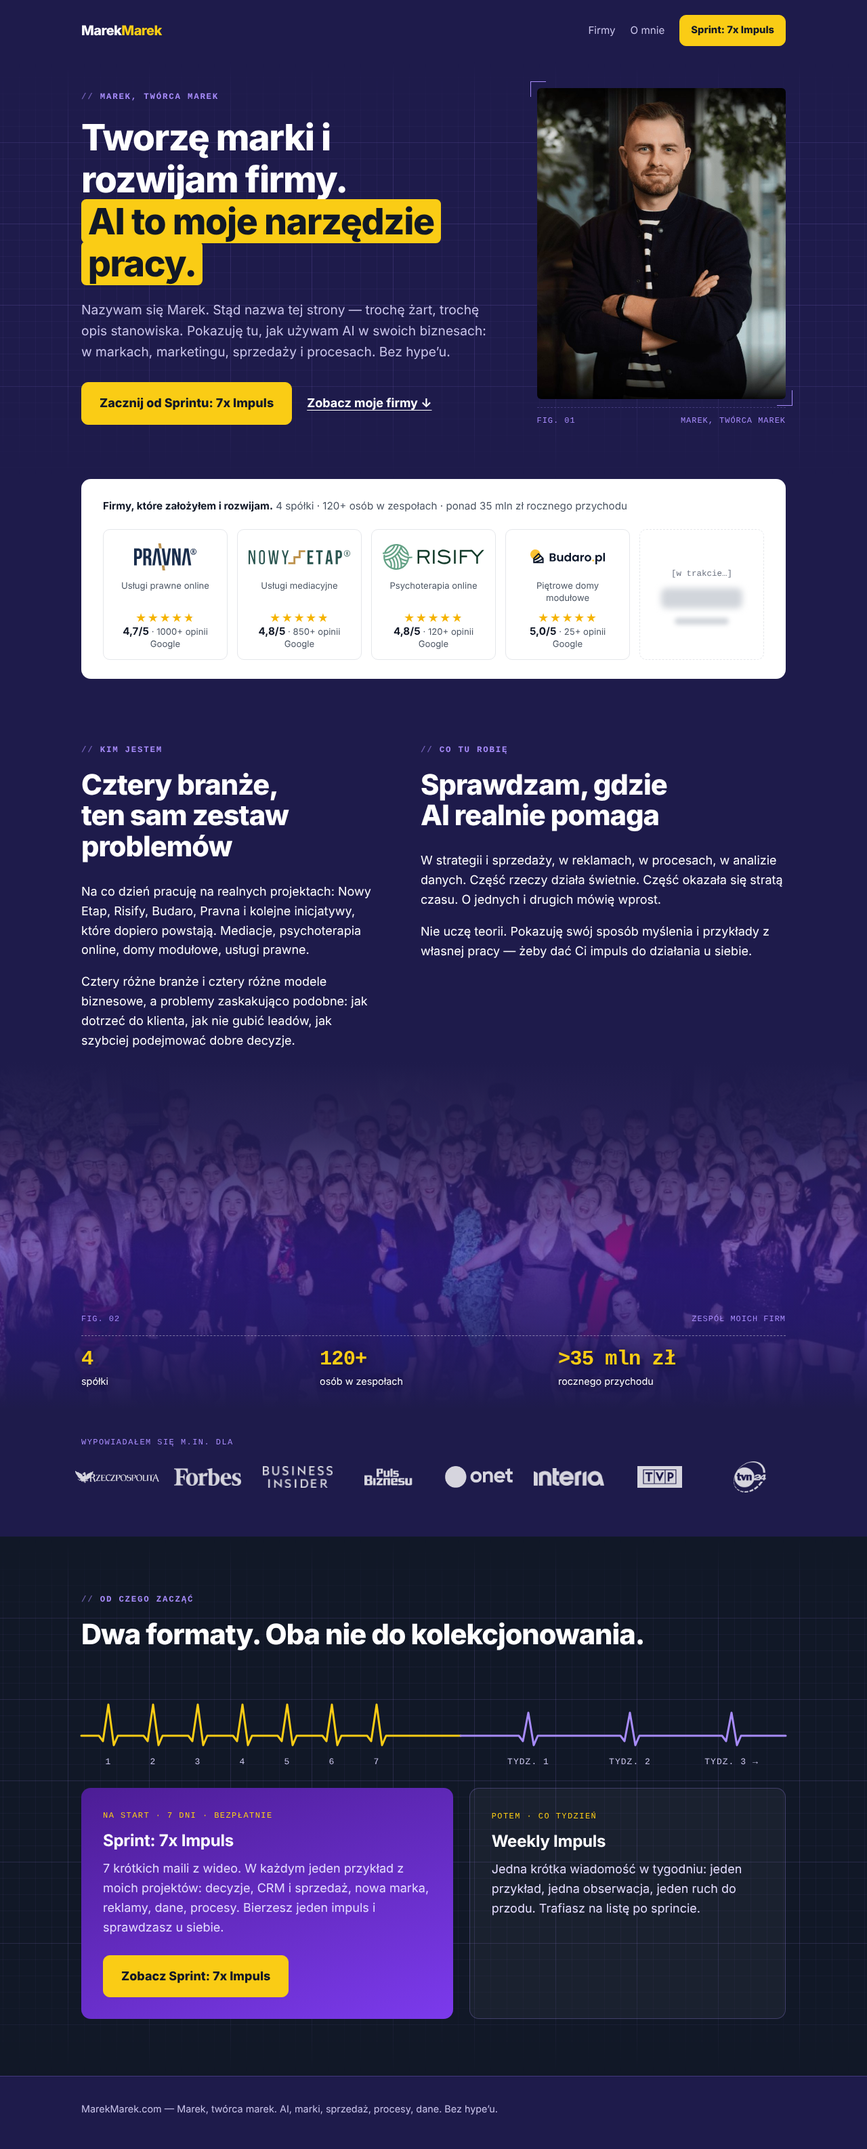
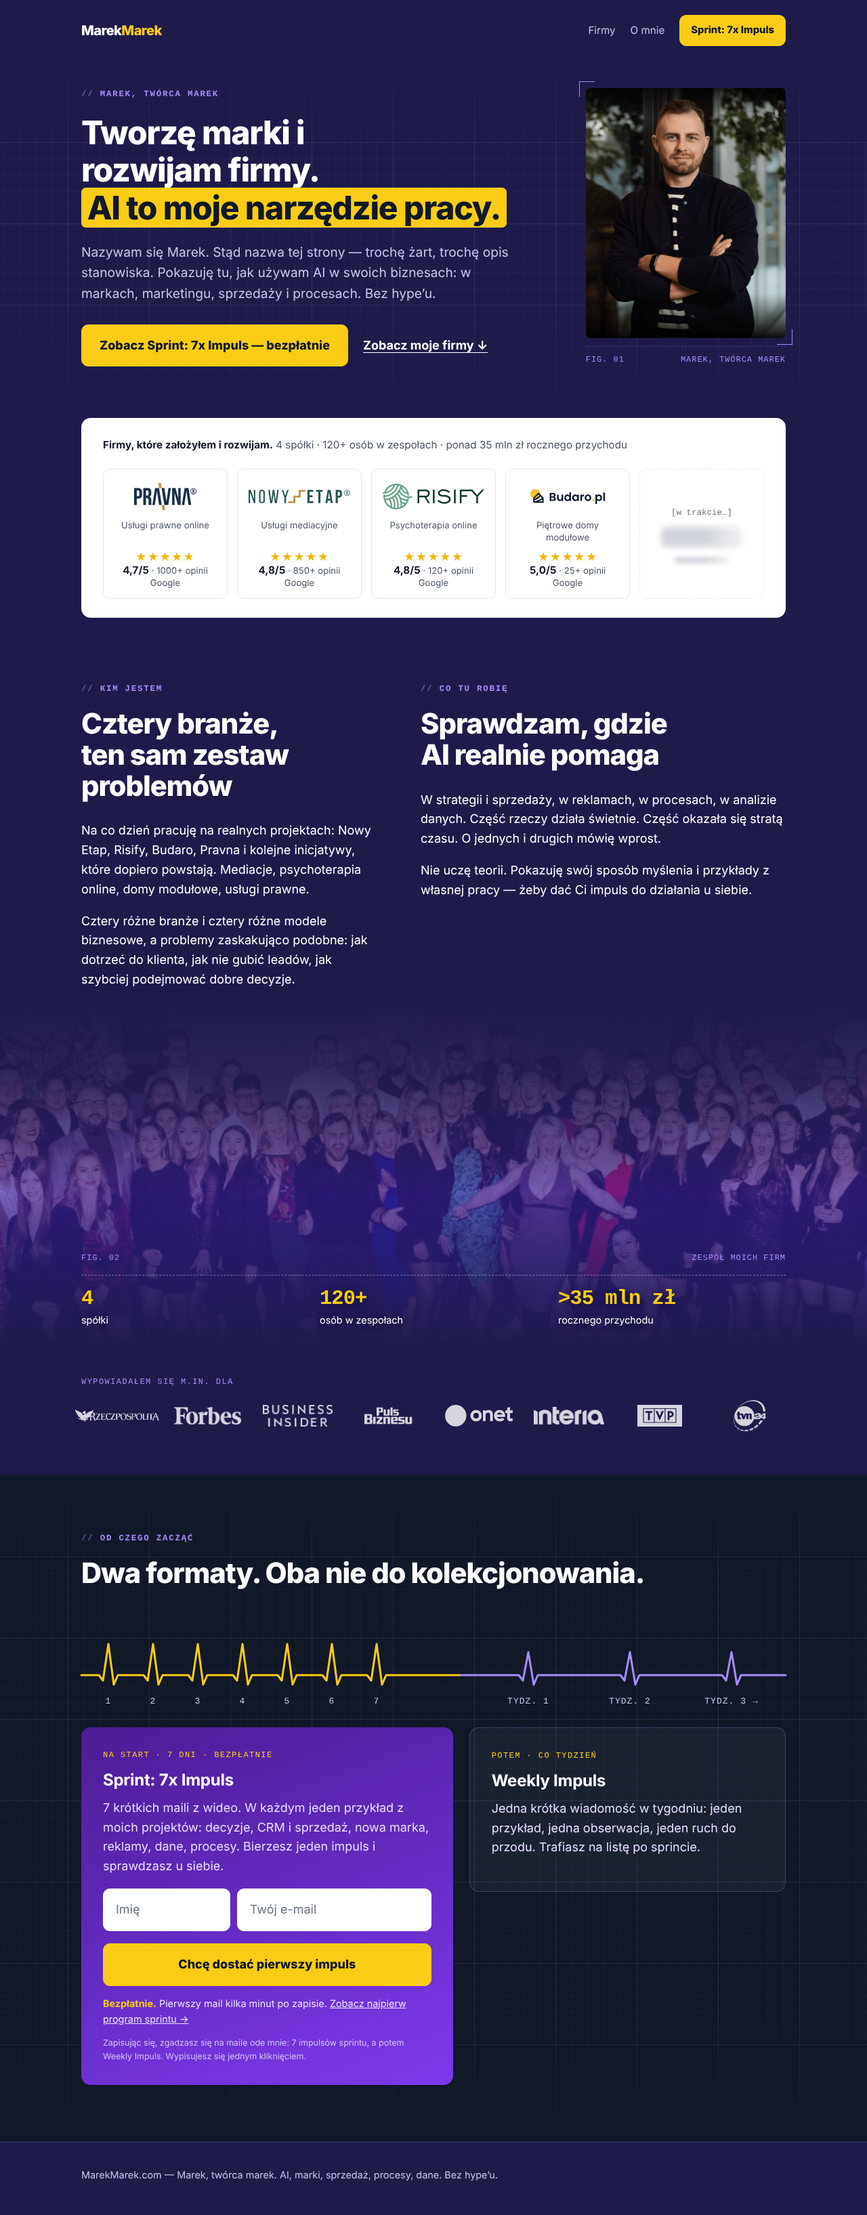
Conversion pass: name field, clearer hero, reordered landing, signup on homepage
- Signup forms now collect first name and email; emails greet with {{imie}}
- Hero micro copy says what arrives and when; consent line under every form
- Landing order: program before qualification, FAQ before the final CTA
- Homepage sprint card has its own signup form
- Sprint header gets a signup button; About section uses a different photo

Claude-Session: https://claude.ai/code/session_01Y4Tb515m5JokKDVRkZMiQM

diff --git a/site/sprint7x/index.html b/site/sprint7x/index.html
@@ -16,7 +16,7 @@
 <header class="top">
   <div class="wrap">
     <a class="brand" href="/" aria-label="MarekMarek.com — strona główna">Marek<span>Marek</span></a>
-    <span class="tagline">Marek, twórca marek</span>
+    <nav class="nav"><a href="/">O mnie</a><a class="btn" href="#zapis">Zapisz się bezpłatnie</a></nav>
   </div>
 </header>
 
@@ -29,12 +29,15 @@
       <h1>Zobacz, jak używam AI do budowania marek swoich firm, marketingu, sprzedaży i&nbsp;procesów w&nbsp;<span class="hl">prawdziwych biznesach</span><sup>*</sup></h1>
       <p class="lead">7 dni. 7 krótkich materiałów. 7 praktycznych przykładów z moich projektów — od CRM-u, przez reklamy i content, po tworzenie nowych marek i analizę danych.</p>
       <form class="signup" data-source="hero">
+        <label class="sr-only" for="name-hero">Imię</label>
+        <input id="name-hero" type="text" name="name" placeholder="Imię" autocomplete="given-name" maxlength="60" required>
         <label class="sr-only" for="email-hero">Twój e-mail</label>
         <input id="email-hero" type="email" name="email" placeholder="Twój e-mail" autocomplete="email" required>
         <button class="btn" type="submit">Chcę dostać pierwszy impuls</button>
       </form>
       <p class="form-error" hidden>Zapis się nie udał. Spróbuj jeszcze raz za chwilę.</p>
-      <p class="micro"><b>Bezpłatnie.</b> Dla przedsiębiorców, freelancerów i właścicieli firm. Bez lania wody. Bez hype’u. Do działania.</p>
+      <p class="micro"><b>Bezpłatnie.</b> Jeden mail z krótkim wideo dziennie przez 7 dni — pierwszy kilka minut po zapisie. Dla przedsiębiorców, freelancerów i właścicieli firm. Bez lania wody, bez hype’u.</p>
+      <p class="legal">Zapisując się, zgadzasz się na maile ode mnie: 7 impulsów sprintu, a potem Weekly Impuls. Wypisujesz się jednym kliknięciem.</p>
       <p class="footnote"><b>*</b> Moje firmy generują &gt;35 mln zł rocznego przychodu <a href="#firmy">zobacz ↓</a></p>
     </div>
     <figure class="hero-photo">
@@ -124,31 +127,6 @@
 </section>
 
 <section>
-  <div class="wrap fit">
-    <div class="yes" data-reveal>
-      <div class="verdict"><b>TAK</b><h2>To jest dla Ciebie, jeśli…</h2></div>
-      <ul>
-        <li>prowadzisz firmę albo działasz jako freelancer,</li>
-        <li>masz więcej pomysłów niż czasu na ich wdrażanie,</li>
-        <li>chcesz zobaczyć praktyczne zastosowania AI w biznesie, a nie pokaz możliwości,</li>
-        <li>chcesz szybciej budować markę, sprzedaż albo procesy,</li>
-        <li>kolejny teoretyczny kurs o AI Cię nie interesuje,</li>
-        <li>wolisz podejrzeć, jak ktoś używa tego w realnych projektach, i wyciągnąć własne wnioski.</li>
-      </ul>
-    </div>
-    <div class="no" data-reveal style="--d:0.12s">
-      <div class="verdict"><b>NIE</b><h2>To nie jest dla Ciebie, jeśli…</h2></div>
-      <ul>
-        <li>szukasz jednego prompta, który załatwi sprawę,</li>
-        <li>chcesz biernie kolekcjonować materiały,</li>
-        <li>oczekujesz obietnicy szybkiego zarobku,</li>
-        <li>nie zamierzasz niczego sprawdzać u siebie.</li>
-      </ul>
-    </div>
-  </div>
-</section>
-
-<section style="padding-top:0">
   <div class="wrap">
     <p class="eyebrow">Program</p>
     <h2>7 dni, 7 impulsów</h2>
@@ -234,11 +212,36 @@
   </div>
 </section>
 
+<section style="padding-top:0">
+  <div class="wrap fit">
+    <div class="yes" data-reveal>
+      <div class="verdict"><b>TAK</b><h2>To jest dla Ciebie, jeśli…</h2></div>
+      <ul>
+        <li>prowadzisz firmę albo działasz jako freelancer,</li>
+        <li>masz więcej pomysłów niż czasu na ich wdrażanie,</li>
+        <li>chcesz zobaczyć praktyczne zastosowania AI w biznesie, a nie pokaz możliwości,</li>
+        <li>chcesz szybciej budować markę, sprzedaż albo procesy,</li>
+        <li>kolejny teoretyczny kurs o AI Cię nie interesuje,</li>
+        <li>wolisz podejrzeć, jak ktoś używa tego w realnych projektach, i wyciągnąć własne wnioski.</li>
+      </ul>
+    </div>
+    <div class="no" data-reveal style="--d:0.12s">
+      <div class="verdict"><b>NIE</b><h2>To nie jest dla Ciebie, jeśli…</h2></div>
+      <ul>
+        <li>szukasz jednego prompta, który załatwi sprawę,</li>
+        <li>chcesz biernie kolekcjonować materiały,</li>
+        <li>oczekujesz obietnicy szybkiego zarobku,</li>
+        <li>nie zamierzasz niczego sprawdzać u siebie.</li>
+      </ul>
+    </div>
+  </div>
+</section>
+
 <section class="deep bp">
   <div class="wrap">
     <div class="about-grid">
       <figure class="about-photo" data-reveal>
-        <div class="marks"><img src="/img/marek-portret.jpg" alt="Marek" width="720" height="910" loading="lazy"></div>
+        <div class="marks"><img src="/img/marek-szeroko.jpg" alt="Marek" width="1432" height="910" loading="lazy"></div>
         <figcaption class="figcap"><span>Fig. 02</span><span>4 spółki, 4 branże</span></figcaption>
       </figure>
       <div data-reveal style="--d:0.12s">
@@ -271,25 +274,7 @@
   </div>
 </section>
 
-<section class="final bp" id="zapis">
-  <div class="wrap">
-   <div class="cta-box marks" data-reveal>
-    <p class="eyebrow">Zapis · bezpłatnie</p>
-    <h2>Jeden impuls wystarczy, żeby ruszyć</h2>
-    <p class="lead">Jeśli chcesz tylko kolejny materiał „na później” — nie zapisuj się. Skrzynka i tak jest pełna.</p>
-    <p class="lead">Jeśli chcesz dostać 7 konkretnych impulsów i wybrać jeden do wdrożenia w swoim biznesie — zacznij od pierwszego. Trafi do Ciebie kilka minut po zapisie.</p>
-    <form class="signup" data-source="final">
-        <label class="sr-only" for="email-final">Twój e-mail</label>
-        <input id="email-final" type="email" name="email" placeholder="Twój e-mail" autocomplete="email" required>
-        <button class="btn" type="submit">Chcę dostać pierwszy impuls</button>
-      </form>
-      <p class="form-error" hidden>Zapis się nie udał. Spróbuj jeszcze raz za chwilę.</p>
-    <p class="micro"><b>Bezpłatnie.</b> 7 dni impulsów, 10 dni dostępu. Potem raz w tygodniu Weekly Impuls. Wypisujesz się jednym kliknięciem.</p>
-   </div>
-  </div>
-</section>
-
-<section class="faq" style="padding-top:0">
+<section class="faq">
   <div class="wrap narrow">
     <p class="eyebrow">FAQ</p>
     <h2>Zanim się zapiszesz</h2>
@@ -321,6 +306,27 @@
       <summary>Czy coś sprzedajesz po drodze?</summary>
       <p>Na tym etapie głównym celem jest pokazanie mojego sposobu myślenia, zbudowanie relacji i rozpoczęcie rozmów z przedsiębiorcami. Jeśli zobaczę, że mogę pomóc konkretnie w Twoim przypadku, możemy porozmawiać. Ale sprint sam w sobie ma dać Ci wartość niezależnie od tego, czy kiedykolwiek coś ode mnie kupisz.</p>
     </details>
+  </div>
+</section>
+
+<section class="final bp" id="zapis" style="padding-top:0">
+  <div class="wrap">
+   <div class="cta-box marks" data-reveal>
+    <p class="eyebrow">Zapis · bezpłatnie</p>
+    <h2>Jeden impuls wystarczy, żeby ruszyć</h2>
+    <p class="lead">Jeśli chcesz tylko kolejny materiał „na później” — nie zapisuj się. Skrzynka i tak jest pełna.</p>
+    <p class="lead">Jeśli chcesz dostać 7 konkretnych impulsów i wybrać jeden do wdrożenia w swoim biznesie — zacznij od pierwszego. Trafi do Ciebie kilka minut po zapisie.</p>
+    <form class="signup" data-source="final">
+        <label class="sr-only" for="name-final">Imię</label>
+        <input id="name-final" type="text" name="name" placeholder="Imię" autocomplete="given-name" maxlength="60" required>
+        <label class="sr-only" for="email-final">Twój e-mail</label>
+        <input id="email-final" type="email" name="email" placeholder="Twój e-mail" autocomplete="email" required>
+        <button class="btn" type="submit">Chcę dostać pierwszy impuls</button>
+      </form>
+      <p class="form-error" hidden>Zapis się nie udał. Spróbuj jeszcze raz za chwilę.</p>
+    <p class="micro"><b>Bezpłatnie.</b> 7 dni impulsów, 10 dni dostępu. Pierwszy mail kilka minut po zapisie.</p>
+    <p class="legal">Zapisując się, zgadzasz się na maile ode mnie: 7 impulsów sprintu, a potem Weekly Impuls. Wypisujesz się jednym kliknięciem.</p>
+   </div>
   </div>
 </section>
 

diff --git a/site/styles.css b/site/styles.css
@@ -36,7 +36,7 @@ a { color: inherit; }
 p { margin: 0 0 1em; }
 figure { margin: 0; }
 h1, h2, h3 { margin: 0; line-height: 1.1; letter-spacing: -0.025em; text-wrap: balance; }
-h1 { font-size: clamp(2rem, 4.7vw, 3.35rem); font-weight: 800; line-height: 1.16; }
+h1 { font-size: clamp(1.9rem, 4.3vw, 3rem); font-weight: 800; line-height: 1.16; }
 h2 { font-size: clamp(1.7rem, 3.6vw, 2.6rem); font-weight: 800; margin-bottom: 0.7em; }
 h3 { font-size: 1.2rem; font-weight: 700; letter-spacing: -0.01em; line-height: 1.25; }
 
@@ -97,7 +97,7 @@ section { padding: 84px 0; position: relative; }
 
 /* hero */
 .hero { padding: 40px 0 76px; }
-.hero-grid { display: grid; grid-template-columns: 1.25fr 0.75fr; gap: 60px; align-items: center; }
+.hero-grid { display: grid; grid-template-columns: 1.4fr 0.6fr; gap: 56px; align-items: center; }
 .hero h1 { margin-bottom: 22px; }
 .hero h1 sup { font-size: 0.5em; color: var(--accent); margin-left: 2px; }
 .hero .lead { margin-bottom: 30px; max-width: 34em; }
@@ -111,11 +111,19 @@ section { padding: 84px 0; position: relative; }
 
 /* formularz */
 .signup { display: flex; gap: 10px; flex-wrap: wrap; max-width: 560px; }
-.signup input[type="email"] {
-  flex: 1 1 220px; min-width: 0; padding: 16px 18px; font: inherit; color: var(--secondary);
+.signup input {
+  flex: 1.5 1 200px; min-width: 0; padding: 16px 18px; font: inherit; color: var(--secondary);
   background: #fff; border: 1.5px solid #fff; border-radius: 10px;
 }
-.signup input[type="email"]::placeholder { color: #6b7280; }
+.signup input[type="text"] { flex: 1 1 130px; }
+.signup input::placeholder { color: #6b7280; }
+.signup .btn { flex: 1 1 100%; text-align: center; }
+.legal { font-size: 0.78rem; color: var(--muted); opacity: 0.85; margin: 8px 0 0; max-width: 560px; }
+.final .legal { margin-left: auto; margin-right: auto; }
+.cta-box .legal { color: #e9e2ff; }
+.paths .legal { color: #e4dcff; }
+.paths .micro { color: #e9e2ff; }
+.paths .signup { margin-top: 18px; }
 .btn {
   display: inline-block; padding: 16px 26px; font: inherit; font-weight: 800; cursor: pointer;
   background: var(--accent); color: var(--secondary); border: 1.5px solid var(--accent); border-radius: 10px;
@@ -293,6 +301,7 @@ section { padding: 84px 0; position: relative; }
 /* dwie drogi na stronie głównej */
 .paths { display: grid; grid-template-columns: 54fr 46fr; gap: 24px; margin-top: 18px; }
 .paths > div { background: var(--panel); border: 1px solid var(--line); border-radius: var(--radius); padding: 32px; }
+.paths > div:not(.main) { align-self: start; }
 .paths .main { background: linear-gradient(160deg, #4c1d95 0%, var(--primary) 100%); border: 0; }
 .paths h3 { font-size: 1.5rem; margin-bottom: 12px; }
 .paths p { color: #e4dcff; }
@@ -375,7 +384,7 @@ body.has-bar footer { padding-bottom: 110px; }
   section { padding: 60px 0; }
   .hero { padding: 16px 0 56px; }
   .hero-grid, .about-grid, .fit, .paths { grid-template-columns: 1fr; gap: 28px; }
-  .hero-photo { max-width: 340px; margin-left: 10px; }
+  .hero-photo { max-width: 240px; margin-left: 10px; }
   .about-photo { margin: 0 10px; }
   .proof-box { padding: 22px 16px; }
   .firms { grid-template-columns: repeat(2, minmax(0, 1fr)); gap: 10px; }

diff --git a/site/index.html b/site/index.html
@@ -33,7 +33,7 @@
       <h1>Tworzę marki i rozwijam firmy.<br><span class="hl">AI to moje narzędzie pracy.</span></h1>
       <p class="lead">Nazywam się Marek. Stąd nazwa tej strony — trochę żart, trochę opis stanowiska. Pokazuję tu, jak używam AI w swoich biznesach: w markach, marketingu, sprzedaży i procesach. Bez hype’u.</p>
       <div class="hero-actions">
-        <a class="btn" href="/sprint7x/">Zacznij od Sprintu: 7x Impuls</a>
+        <a class="btn" href="/sprint7x/">Zobacz Sprint: 7x Impuls — bezpłatnie</a>
         <a class="textlink" href="#firmy">Zobacz moje firmy ↓</a>
       </div>
     </div>
@@ -123,7 +123,7 @@
   </div>
 </section>
 
-<section class="deep bp">
+<section class="deep bp" id="zapis">
   <div class="wrap">
     <p class="eyebrow">Od czego zacząć</p>
     <h2>Dwa formaty. Oba nie do kolekcjonowania.</h2>
@@ -137,7 +137,16 @@
         <p class="tag">Na start · 7 dni · bezpłatnie</p>
         <h3>Sprint: 7x Impuls</h3>
         <p>7 krótkich maili z wideo. W każdym jeden przykład z moich projektów: decyzje, CRM i sprzedaż, nowa marka, reklamy, dane, procesy. Bierzesz jeden impuls i sprawdzasz u siebie.</p>
-        <a class="btn" href="/sprint7x/">Zobacz Sprint: 7x Impuls</a>
+        <form class="signup" data-source="home">
+        <label class="sr-only" for="name-home">Imię</label>
+        <input id="name-home" type="text" name="name" placeholder="Imię" autocomplete="given-name" maxlength="60" required>
+        <label class="sr-only" for="email-home">Twój e-mail</label>
+        <input id="email-home" type="email" name="email" placeholder="Twój e-mail" autocomplete="email" required>
+        <button class="btn" type="submit">Chcę dostać pierwszy impuls</button>
+      </form>
+        <p class="form-error" hidden>Zapis się nie udał. Spróbuj jeszcze raz za chwilę.</p>
+        <p class="micro"><b>Bezpłatnie.</b> Pierwszy mail kilka minut po zapisie. <a href="/sprint7x/">Zobacz najpierw program sprintu →</a></p>
+        <p class="legal">Zapisując się, zgadzasz się na maile ode mnie: 7 impulsów sprintu, a potem Weekly Impuls. Wypisujesz się jednym kliknięciem.</p>
       </div>
       <div data-reveal style="--d:0.12s">
         <p class="tag">Potem · co tydzień</p>

diff --git a/site/app.js b/site/app.js
@@ -1,6 +1,6 @@
 // Zapis na Sprint: 7x Impuls.
 //
-// SIGNUP_ENDPOINT: adres, na który formularz wysyła e-mail (POST, JSON: { email, source }).
+// SIGNUP_ENDPOINT: adres, na który formularz wysyła zapis (POST, JSON: { name, email, source }).
 // Dopóki jest pusty, formularz NIE zapisuje nikogo — tylko przenosi na stronę po zapisie (tryb podglądu).
 const SIGNUP_ENDPOINT = "";
 const THANK_YOU_URL = "/dziekuje/";
@@ -11,6 +11,7 @@ document.querySelectorAll("form.signup").forEach((form) => {
     const button = form.querySelector("button");
     const error = form.parentElement.querySelector(".form-error");
     const email = form.querySelector('input[type="email"]').value.trim();
+    const name = form.querySelector('input[name="name"]').value.trim();
     if (error) error.hidden = true;
 
     if (!SIGNUP_ENDPOINT) {
@@ -24,7 +25,7 @@ document.querySelectorAll("form.signup").forEach((form) => {
       const response = await fetch(SIGNUP_ENDPOINT, {
         method: "POST",
         headers: { "Content-Type": "application/json" },
-        body: JSON.stringify({ email, source: form.dataset.source || "landing" }),
+        body: JSON.stringify({ name, email, source: form.dataset.source || "landing" }),
       });
       if (!response.ok) throw new Error("HTTP " + response.status);
       window.location.href = THANK_YOU_URL;

diff --git a/content/01-landing-page.md b/content/01-landing-page.md
@@ -1,6 +1,8 @@
 # Landing page sprintu — MarekMarek.com/sprint7x/
 
-Zapis na Sprint: 7x Impuls. Strona główna (o Marku) ma osobny plik: `00-strona-glowna.md`. Teksty gotowe do wklejenia. Wskazówki dla osoby składającej stronę są w nawiasach kwadratowych i kursywą.
+Zapis na Sprint: 7x Impuls. Strona główna (o Marku) ma osobny plik: `00-strona-glowna.md`.
+
+**Kolejność sekcji na stronie:** hero → firmy → problem → czym jest 7x Impuls → program (7 dni) → dla kogo → kim jestem → FAQ → końcowe CTA. Numery sekcji poniżej pochodzą z briefu. Teksty gotowe do wklejenia. Wskazówki dla osoby składającej stronę są w nawiasach kwadratowych i kursywą.
 
 ---
 
@@ -19,13 +21,16 @@ Zobacz, jak używam AI do budowania marek swoich firm, marketingu, sprzedaży i 
 **Podtytuł:**
 7 dni. 7 krótkich materiałów. 7 praktycznych przykładów z moich projektów — od CRM-u, przez reklamy i content, po tworzenie nowych marek i analizę danych.
 
-**Formularz:** pole „Twój e-mail” + przycisk
+**Formularz:** pola „Imię” i „Twój e-mail” + przycisk
 
 **CTA:**
 Chcę dostać pierwszy impuls
 
 **Mikrocopy pod CTA:**
-Bezpłatnie. Dla przedsiębiorców, freelancerów i właścicieli firm. Bez lania wody. Bez hype’u. Do działania.
+Bezpłatnie. Jeden mail z krótkim wideo dziennie przez 7 dni — pierwszy kilka minut po zapisie. Dla przedsiębiorców, freelancerów i właścicieli firm. Bez lania wody, bez hype’u.
+
+**Zgoda (drobnym drukiem pod każdym formularzem):**
+Zapisując się, zgadzasz się na maile ode mnie: 7 impulsów sprintu, a potem Weekly Impuls. Wypisujesz się jednym kliknięciem.
 
 **Boks z firmami pod hero** *[logotypy z `assets/foundersai/`, pod każdym ocena Google]*
 Przykłady pochodzą z firm, które założyłem i rozwijam. 4 spółki · 120+ osób w zespołach · ponad 35 mln zł rocznego przychodu
@@ -185,7 +190,7 @@ Jeśli chcesz dostać 7 konkretnych impulsów i wybrać jeden do wdrożenia w sw
 Chcę dostać pierwszy impuls
 
 **Mikrocopy:**
-Bezpłatnie. 7 dni impulsów, 10 dni dostępu. Potem raz w tygodniu Weekly Impuls. Wypisujesz się jednym kliknięciem.
+Bezpłatnie. 7 dni impulsów, 10 dni dostępu. Pierwszy mail kilka minut po zapisie.
 
 ---
 

diff --git a/content/03-sprint-maile-0-4.md b/content/03-sprint-maile-0-4.md
@@ -17,6 +17,7 @@
 
 **Konwencje:**
 - `{{link_…}}` — miejsce na link z systemu mailowego.
+- `{{imie}}` — imię z formularza zapisu. Gdy puste, powitanie to samo „Cześć,”.
 - W scenariuszach: **[NA EKRANIE]** = nagranie ekranu, **[TU: …]** = miejsce na prawdziwy przykład Marka, którego nie da się napisać za niego.
 - Scenariusze są pisane na 4–6 minut mówienia plus pokaz ekranu.
 - Nadawca: „Marek z MarekMarek.com”. Maile wysyłane z adresu, na który można odpisać.
@@ -31,7 +32,7 @@
 
 **Treść:**
 
-Cześć,
+Cześć {{imie}},
 
 tu Marek z MarekMarek.com. Marek, twórca marek — tak, ta nazwa to trochę żart, a trochę opis tego, co robię.
 
@@ -100,7 +101,7 @@ PS. Odpisz na tego maila jednym zdaniem: czym się zajmujesz? Chcę wiedzieć, d
 
 **Treść:**
 
-Cześć,
+Cześć {{imie}},
 
 zacznę od wyznania: przez pierwsze miesiące używałem AI głównie do pisania tekstów. Mail, opis, post. Działało, ale nic w firmie się od tego nie zmieniło.
 
@@ -196,7 +197,7 @@ PS. Odpisz na tego maila jednym zdaniem: jaka decyzja albo jaki chaos w firmie n
 
 **Treść:**
 
-Cześć,
+Cześć {{imie}},
 
 kiedy sprzedaż siada, pierwszy odruch jest prawie zawsze ten sam: potrzebujemy więcej leadów. Więcej budżetu na reklamy i problem z głowy.
 
@@ -286,7 +287,7 @@ PS. Odpisz: gdzie w Twojej firmie najczęściej giną leady — przed rozmową, 
 
 **Treść:**
 
-Cześć,
+Cześć {{imie}},
 
 zbudowałem kilka marek i za każdym razem popełniałem ten sam błąd na starcie: za szybko chciałem zobaczyć logo.
 
@@ -375,7 +376,7 @@ PS. Odpisz: gdybyś miał dziś nazwać jednym zdaniem, czym naprawdę jest Twoj
 
 **Treść:**
 
-Cześć,
+Cześć {{imie}},
 
 moje firmy wydają na reklamy naprawdę dużo. Dość, żebym kilka razy boleśnie się przekonał o jednym: reklama, która najbardziej podoba się mnie i zespołowi, rzadko wygrywa.
 

diff --git a/content/00-strona-glowna.md b/content/00-strona-glowna.md
@@ -14,7 +14,7 @@ Tworzę marki i rozwijam firmy. AI to moje narzędzie pracy.
 **Podtytuł:**
 Nazywam się Marek. Stąd nazwa tej strony — trochę żart, trochę opis stanowiska. Pokazuję tu, jak używam AI w swoich biznesach: w markach, marketingu, sprzedaży i procesach. Bez hype’u.
 
-**CTA:** Zacznij od Sprintu: 7x Impuls → `/sprint7x/`
+**CTA:** Zobacz Sprint: 7x Impuls — bezpłatnie → `/sprint7x/`
 
 **Link:** Zobacz moje firmy ↓
 
@@ -52,7 +52,8 @@ Nie uczę teorii. Pokazuję swój sposób myślenia i przykłady z własnej prac
 
 **Sprint: 7x Impuls** (na start · 7 dni · bezpłatnie)
 7 krótkich maili z wideo. W każdym jeden przykład z moich projektów: decyzje, CRM i sprzedaż, nowa marka, reklamy, dane, procesy. Bierzesz jeden impuls i sprawdzasz u siebie.
-CTA: Zobacz Sprint: 7x Impuls
+Formularz zapisu w karcie: pola „Imię” i „Twój e-mail”, przycisk „Chcę dostać pierwszy impuls”.
+Mikrocopy: Bezpłatnie. Pierwszy mail kilka minut po zapisie. [Zobacz najpierw program sprintu →]
 
 **Weekly Impuls** (potem · co tydzień)
 Jedna krótka wiadomość w tygodniu: jeden przykład, jedna obserwacja, jeden ruch do przodu. Trafiasz na listę po sprincie.

diff --git a/CLAUDE.md b/CLAUDE.md
@@ -32,6 +32,10 @@ Motyw „Social Bold (Growth)” (wybór Marka, 2026-11-21): kolor główny `#7C
 
 Gdzieniegdzie klimat blueprintu, zawsze fioletowy: siatka kreślarska (`.bp`), znaczniki narożne (`.marks`), przerywane linie, etykiety pismem maszynowym („Fig. 01”). Oszczędnie — nie na każdej sekcji. Logotypy spółek są ciemne, więc stoją na białej karcie, pod każdym ocena Google. Logotypy mediów: białe, jednokolorowe PNG w `site/img/media/` (wycięte z plików foundersai.pl), pokazywane małe. Przy CTA zawsze informacja, że sprint jest bezpłatny.
 
+## Formularz
+
+Pola: imię i e-mail. W mailach powitanie `Cześć {{imie}},`. Pod każdym formularzem: informacja „Bezpłatnie” i zdanie o zgodzie na maile.
+
 ## Struktura
 
 - `content/` — źródło prawdy dla tekstów.
